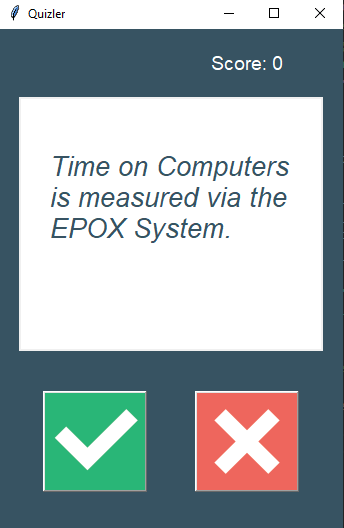
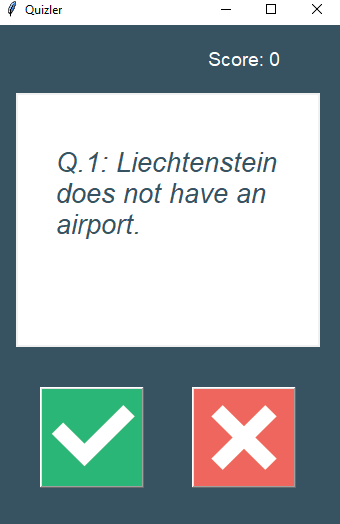
feat: display.server.data.w.ui

diff --git a/int+/day34/ui.py b/int+/day34/ui.py
@@ -1,10 +1,13 @@
 from tkinter import *
+from quiz_brain import QuizBrain
 
 THEME_COLOR = "#375362"
 
 class QuizInterface:
 
-  def __init__(self):
+  def __init__(self, quiz_brain: QuizBrain):
+    self.quiz = quiz_brain
+
     self.window = Tk()
     self.window.title('Quizler')
     self.window.config(padx=20, pady=20, bg=THEME_COLOR)
@@ -21,8 +24,8 @@ class QuizInterface:
     self.quiz_text = self.canvas.create_text(
       150,
       100,
-      text="Time on Computers is measured via the EPOX System.", 
-      width=250,
+      text='Halo there!', 
+      width=280,
       font=("Arial", 20, "italic"),
       fill=THEME_COLOR)
     self.canvas.grid(row=1, column=0, columnspan=2, pady=20)
@@ -35,8 +38,15 @@ class QuizInterface:
     self.false_button = Button(image=self.false_img, highlightthickness=0, command=get_quote)
     self.false_button.grid(row=2, column=1, pady=20)
 
+    self.get_next_question()
+
 
     self.window.mainloop()
+
+  def get_next_question(self):
+    q_text = self.quiz.next_question()
+    self.canvas.itemconfig(self.quiz_text, text=q_text)
+
 
 
 

diff --git a/int+/day34/quiz_brain.py b/int+/day34/quiz_brain.py
@@ -15,8 +15,9 @@ class QuizBrain:
         # Очищаем текст от 
         # q_text = unescape(self.current_question.text)
         # user_answer = input(f"Q.{self.question_number}: {q_text} (True/False): ")
-        user_answer = input(f"Q.{self.question_number}: {self.current_question.text} (True/False): ")
-        self.check_answer(user_answer)
+        # user_answer = input(f"Q.{self.question_number}: {self.current_question.text} (True/False): ")
+        # self.check_answer(user_answer)
+        return f"Q.{self.question_number}: {self.current_question.text}"
 
     def check_answer(self, user_answer):
         correct_answer = self.current_question.answer

diff --git a/int+/day34/main.py b/int+/day34/main.py
@@ -15,7 +15,7 @@ for question in question_data():
     question_bank.append(new_question)
 
 quiz = QuizBrain(question_bank)
-quiz_ui = QuizInterface()
+quiz_ui = QuizInterface(quiz)
 
 # while quiz.still_has_questions():
 #     quiz.next_question()
